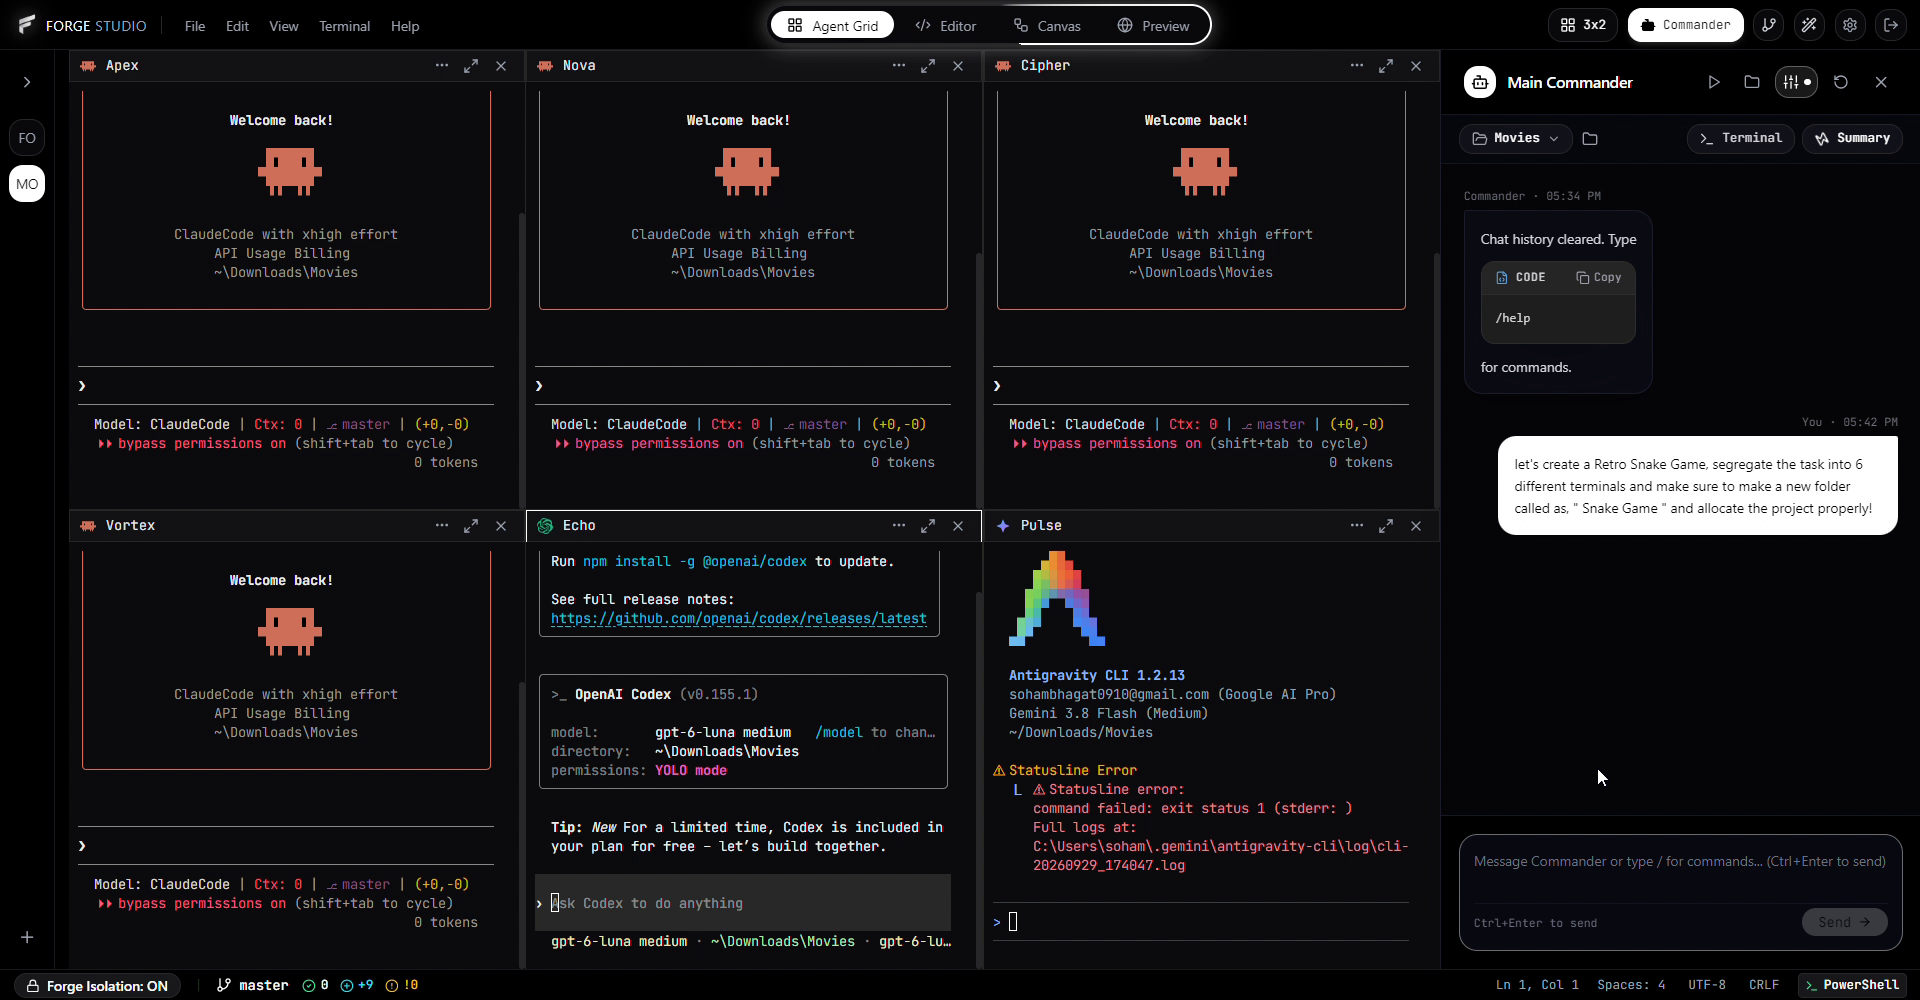
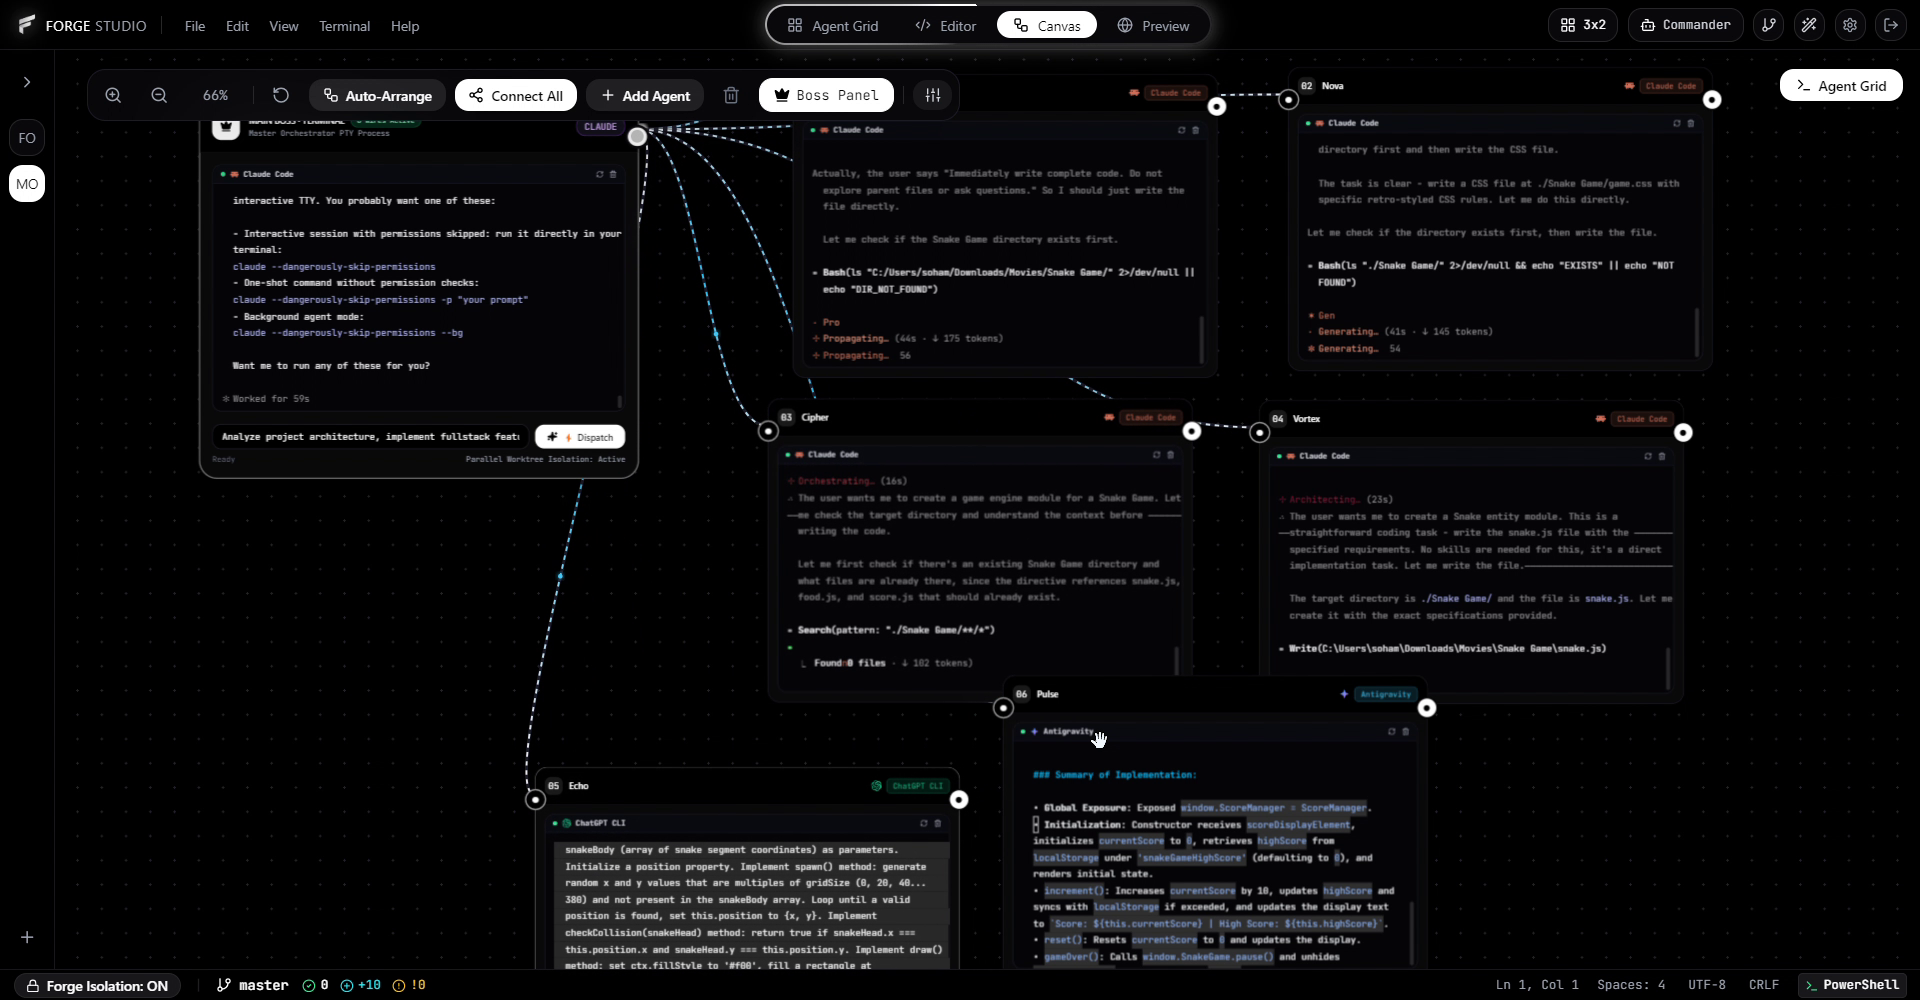
Remove telemetry clutter from Section 3, verify authentic DAG bezier canvas, and integrate Broadcast Telemetry Dashboard into Section 4

diff --git a/src/components/VideoShowcaseSection.tsx b/src/components/VideoShowcaseSection.tsx
@@ -284,86 +284,50 @@ export default function VideoShowcaseSection() {
               </AnimatePresence>
             </div>
 
-            {/* Bottom Status & Controls Bar */}
-            <div className="h-11 sm:h-12 bg-[#080B12] border-t border-white/10 px-4 sm:px-6 flex items-center justify-between gap-4 select-none shrink-0 z-20 font-mono text-[10px] sm:text-[11px]">
-              
-              {activeTab === 'video' ? (
-                <>
-                  <div className="flex items-center gap-3 shrink-0">
-                    <button
-                      type="button"
-                      onClick={togglePlay}
-                      aria-label={isPlaying ? 'Pause' : 'Play'}
-                      className="h-7 w-7 rounded-full bg-white/10 hover:bg-[#FF3B1D] text-white flex items-center justify-center transition-colors duration-200 cursor-pointer"
-                    >
-                      {isPlaying ? <Pause size={12} /> : <Play size={12} className="ml-0.5 fill-current" />}
-                    </button>
-                    <span className="font-mono text-[10px] sm:text-[11px] text-white/80 tracking-wider">
-                      3D LAUNCH REEL (10s)
-                    </span>
-                  </div>
-
-                  {/* Interactive Seek Scrubber */}
-                  <div
-                    onClick={handleSeek}
-                    role="progressbar"
-                    aria-label="Video scrubber"
-                    className="flex-1 max-w-[440px] h-1.5 bg-white/10 rounded-full overflow-hidden cursor-pointer relative group/scrub py-1"
+            {/* Bottom Media Controls Bar (Only visible when 3D Product Reel is active, zero clutter on Grid & Canvas) */}
+            {activeTab === 'video' && (
+              <div className="h-11 sm:h-12 bg-[#080B12] border-t border-white/10 px-4 sm:px-6 flex items-center justify-between gap-4 select-none shrink-0 z-20 font-mono text-[10px] sm:text-[11px]">
+                <div className="flex items-center gap-3 shrink-0">
+                  <button
+                    type="button"
+                    onClick={togglePlay}
+                    aria-label={isPlaying ? 'Pause' : 'Play'}
+                    className="h-7 w-7 rounded-full bg-white/10 hover:bg-[#FF3B1D] text-white flex items-center justify-center transition-colors duration-200 cursor-pointer"
                   >
-                    <div className="w-full h-full bg-white/15 rounded-full overflow-hidden relative">
-                      <div
-                        ref={progressBarRef}
-                        className="h-full bg-[#FF3B1D] rounded-full transition-[width] duration-100 ease-linear w-0"
-                      />
-                    </div>
-                  </div>
+                    {isPlaying ? <Pause size={12} /> : <Play size={12} className="ml-0.5 fill-current" />}
+                  </button>
+                  <span className="font-mono text-[10px] sm:text-[11px] text-white/70 tracking-wider">
+                    3D PRODUCT REEL
+                  </span>
+                </div>
 
-                  <div className="flex items-center gap-3 shrink-0">
-                    <button
-                      type="button"
-                      onClick={toggleMute}
-                      aria-label={isMuted ? 'Unmute audio' : 'Mute audio'}
-                      className="h-7 w-7 rounded-full bg-white/10 hover:bg-white/20 text-white flex items-center justify-center transition-colors duration-200 cursor-pointer"
-                    >
-                      {isMuted ? <VolumeX size={13} /> : <Volume2 size={13} />}
-                    </button>
-                    <span className="px-2 py-0.5 rounded bg-emerald-950/60 border border-emerald-500/30 text-emerald-300 font-semibold hidden md:inline">
-                      100% COLLISION FREE
-                    </span>
+                {/* Interactive Seek Scrubber */}
+                <div
+                  onClick={handleSeek}
+                  role="progressbar"
+                  aria-label="Video scrubber"
+                  className="flex-1 max-w-[480px] h-1.5 bg-white/10 rounded-full overflow-hidden cursor-pointer relative group/scrub py-1"
+                >
+                  <div className="w-full h-full bg-white/15 rounded-full overflow-hidden relative">
+                    <div
+                      ref={progressBarRef}
+                      className="h-full bg-[#FF3B1D] rounded-full transition-[width] duration-100 ease-linear w-0"
+                    />
                   </div>
-                </>
-              ) : (
-                <>
-                  {/* Left Indicator */}
-                  <div className="flex items-center gap-2.5 text-white/80">
-                    <span className="w-2 h-2 rounded-full bg-emerald-400 animate-pulse" />
-                    <span className="font-semibold tracking-wide">
-                      {activeTab === 'grid'
-                        ? '6 PARALLEL PTY THREADS'
-                        : 'DAG AGENT GRAPH ACTIVE'}
-                    </span>
-                    <span className="text-white/20 hidden sm:inline">|</span>
-                    <span className="text-white/50 hidden sm:inline">.worktrees/agent-01..06</span>
-                  </div>
+                </div>
 
-                  {/* Center Tech Note */}
-                  <div className="hidden lg:flex items-center gap-2 text-white/50">
-                    <span>GPU-ACCELERATED XTERM.JS RENDERING</span>
-                    <span className="text-white/20">&bull;</span>
-                    <span className="text-emerald-400">60 FPS</span>
-                  </div>
-
-                  {/* Right Worktree Status */}
-                  <div className="flex items-center gap-2 text-white/70">
-                    <span className="text-neutral-400 hidden md:inline">GIT WORKTREE ISOLATION:</span>
-                    <span className="px-2 py-0.5 rounded bg-emerald-950/60 border border-emerald-500/30 text-emerald-300 font-semibold">
-                      100% COLLISION FREE
-                    </span>
-                  </div>
-                </>
-              )}
-
-            </div>
+                <div className="flex items-center gap-3 shrink-0">
+                  <button
+                    type="button"
+                    onClick={toggleMute}
+                    aria-label={isMuted ? 'Unmute audio' : 'Mute audio'}
+                    className="h-7 w-7 rounded-full bg-white/10 hover:bg-white/20 text-white flex items-center justify-center transition-colors duration-200 cursor-pointer"
+                  >
+                    {isMuted ? <VolumeX size={13} /> : <Volume2 size={13} />}
+                  </button>
+                </div>
+              </div>
+            )}
 
           </div>
 

diff --git a/src/data/portfolioData.ts b/src/data/portfolioData.ts
@@ -55,7 +55,7 @@ export const portfolioData: PortfolioData = {
     isAvailable: true,
     location: 'Pune, Maharashtra, India • Open to Remote',
     email: 'soham.ai.research@gmail.com',
-    github: 'https://github.com',
+    github: 'https://github.com/SohamPBhagat',
     linkedin: 'https://www.linkedin.com/in/soham-bhagat-0132b33a0/',
     kaggle: 'https://kaggle.com',
     university: 'Savitribai Phule Pune University (SPPU), Department of Technology',
@@ -156,6 +156,29 @@ export const portfolioData: PortfolioData = {
       ],
       technologies: ['HyperFrames', 'Remotion', 'GSAP', 'FFmpeg', 'Node.js', 'Whisper'],
       githubUrl: 'https://github.com/example/hyperframes-agent',
+      featured: true
+    },
+    {
+      id: 'broadcast-telemetry-hud',
+      title: 'Broadcast Design Telemetry Dashboard: 3D Globe & Regional Intelligence HUD',
+      category: 'Video & Motion Eng',
+      tagline: 'Interactive 3D WebGL globe, regional radar telemetry, and real-time AI news/market intelligence feed.',
+      description: 'A sci-fi broadcast telemetry interface featuring real-time 3D globe visualization, regional radar target locking, simulated audio synthesizer, and multi-provider AI intelligence gateway.',
+      problem: 'Real-time broadcast graphics and situation-room interfaces require high-performance rendering of planetary data and interactive radar telemetry without UI lag.',
+      solution: 'Architected with Three.js, Three-Globe, D3-Geo projections, Web Audio API, and custom CRT scanline shaders with responsive country telemetry switching.',
+      architectureDetails: [
+        '3D WebGL globe rendering with satellite orbits, atmosphere glow, and country hover detection',
+        'Custom regional radar telemetry panels and audio synthesizer generating realistic HUD beeps and locks',
+        'AI Inference Gateway with fallback simulation mode supporting OpenAI and Anthropic endpoints'
+      ],
+      metrics: [
+        { label: 'Frame Rate', value: '60 FPS WebGL' },
+        { label: 'Coverage', value: '190+ Countries' },
+        { label: 'Audio Engine', value: 'Web Audio API' }
+      ],
+      technologies: ['React 19', 'TypeScript', 'Three.js', 'Three-Globe', 'D3-Geo', 'Tailwind CSS', 'Vite'],
+      githubUrl: 'https://github.com/SohamPBhagat/Broadcast-Design-Telemetry-Dashboard',
+      liveDemoUrl: 'https://broadcast-design-telemetry-dashboard.vercel.app',
       featured: true
     }
   ]

diff --git a/src/components/ServicesSection.tsx b/src/components/ServicesSection.tsx
@@ -15,30 +15,30 @@ interface ServiceItem {
 const SERVICES: ServiceItem[] = [
   {
     number: '01',
-    title: 'UI/UX & Product Design',
-    tag: 'Design Systems · Luxury Editorial Layouts · Interactive Prototypes',
-    image: '/images/forge-studio-canvas.png',
+    title: 'Cybernetic Telemetry & UI/UX Design',
+    tag: 'Broadcast Systems · 3D WebGL Globe · Radar Diagnostics · Sci-Fi Command',
+    image: '/images/broadcast-telemetry-dashboard.png',
     href: 'https://github.com/SohamBhagat',
   },
   {
     number: '02',
-    title: 'Webflow & Modern Web Dev',
-    tag: 'Custom Responsive Builds · Clean Semantic Code · Next.js 15 & Webflow',
-    image: '/images/forge-studio-grid.png',
-    href: 'https://github.com/SohamBhagat',
+    title: 'Autonomous Multi-Agent Systems',
+    tag: 'Directed Acyclic Graphs · PTY Multiplexing · Autonomous Worktree Swarms',
+    image: '/images/forge-studio-canvas.png',
+    href: 'https://www.forgeapi.org/',
   },
   {
     number: '03',
-    title: 'Motion & Interaction Design',
-    tag: 'Physics-Based Springs · 60fps Micro-Animations · Kinetic Visual Flow',
-    image: '/images/forge-studio-canvas.png',
-    href: 'https://github.com/SohamBhagat',
+    title: 'Full-Stack & Terminal Runtimes',
+    tag: 'ConPTY / node-pty · xterm.js GPU Canvas · Next.js & FastAPI',
+    image: '/images/forge-studio-grid.png',
+    href: 'https://www.forgeapi.org/',
   },
   {
     number: '04',
-    title: 'AI Systems & Custom Engineering',
-    tag: 'Autonomous Multi-Agent Runtimes · Deterministic Tooling · Knowledge Graphs',
-    image: '/images/forge-studio-grid.png',
+    title: 'Developer Tools & DX Engines',
+    tag: 'Topology Grid Engines · State Persistence · Micro-Interactions',
+    image: '/images/forge-studio-launcher.png',
     href: 'https://www.forgeapi.org/',
   },
 ];
